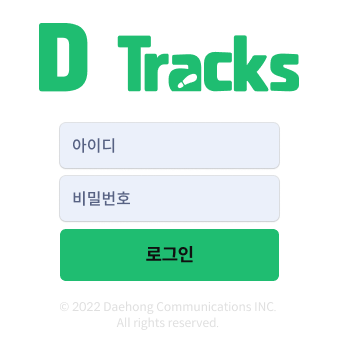
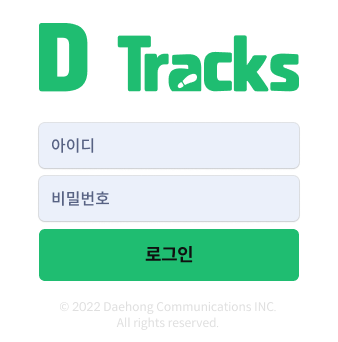
login update

diff --git a/prototype/login-video-1.html b/prototype/login-video-1.html
@@ -79,8 +79,7 @@
       left: 0;
       top: 0;
       background: rgb(0,0,0);
-      /* background: linear-gradient(211deg, rgba(0,0,0,0.9) 0%, rgba(0,0,0,0.6) 58%, rgba(31,189,113,0.6) 100%); */
-      background: linear-gradient(211deg, rgba(0,0,0,0.9) 0%, rgba(0,0,0,0.6) 58%, rgba(255,255,255,0.6) 100%);
+      background: linear-gradient(211deg, rgba(0,0,0,0.9) 0%, rgba(0,0,0,0.6) 58%, rgba(31,189,113,0.6) 100%);
     }
 
     .video_area video {
@@ -110,7 +109,7 @@
   </div><!-- video_area -->
 
   <div class="login_contents scrollLock">
-    <a href="dtracks.html" target="_self"><img src="images/D-Tracks-login-1.png" alt="" srcset=""></a>
+    <a href="dtracks.html" target="_self"><img src="images/D-Tracks-login-2.png" alt="" srcset=""></a>
   </div>
 
 
